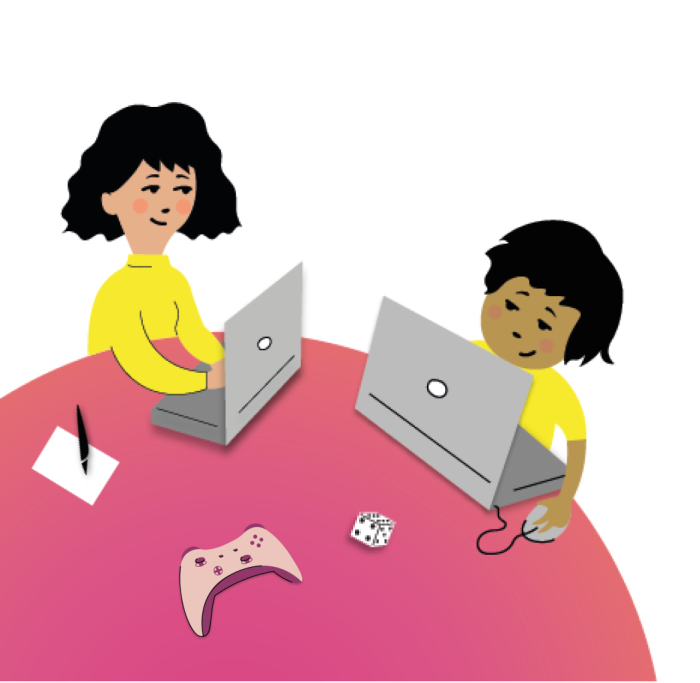
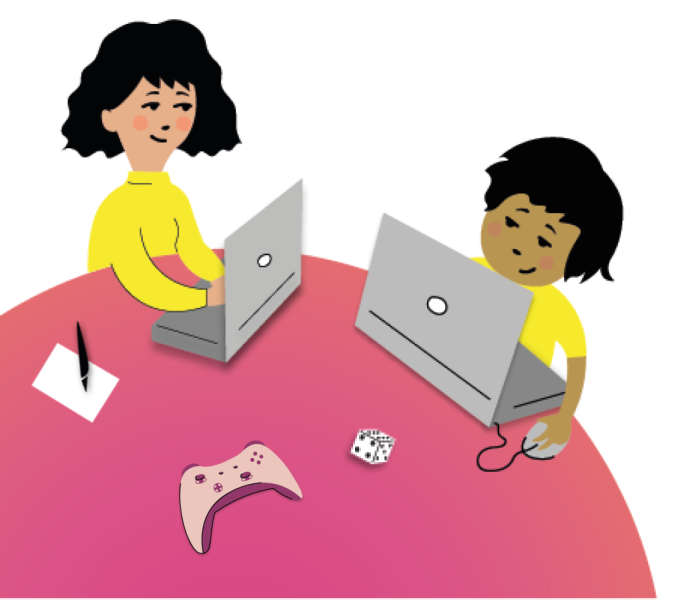
Add illustration on main page

diff --git a/partenaires.html b/partenaires.html
@@ -76,11 +76,6 @@
                                 </a>
                             </div>
                             <div class="column is-3-desktop is-4 partner-div">
-                                <a class="partner-link" href="https://abidingbridge.com">
-                                    <img class="partner-image" src="images/logo-abidingagora.png" alt="Logo Abiding Agora">
-                                </a>
-                            </div>
-                            <div class="column is-3-desktop is-4 partner-div">
                                 <a class="partner-link" href="http://museomix-nord.fr/">
                                     <img class="partner-image" src="images/logo-museomix.png" alt="Logo Museomix Nord">
                                 </a>

diff --git a/index.html b/index.html
@@ -86,6 +86,9 @@
             <p id="home-link"><a class="pink-link subtitle" href="presentation.html">La suite ici...</a></p>
         </div>
     </div>
+    <div class="column is-6 is-offset-3" id="illustration-header">
+        <img id="illu" src="images/home-illu.png" alt="People at a gamejam">
+    </div>
 </body>
 <script type="application/javascript" src="js/navbar.js"></script>
 </html>

diff --git a/css/index.css b/css/index.css
@@ -64,3 +64,13 @@
 #hour {
     font-size: 10px;
 }
+
+#illustration-header {
+    display: flex;
+    justify-content: center;
+    align-items: center;
+}
+
+#illu {
+    max-width:400px;
+}
